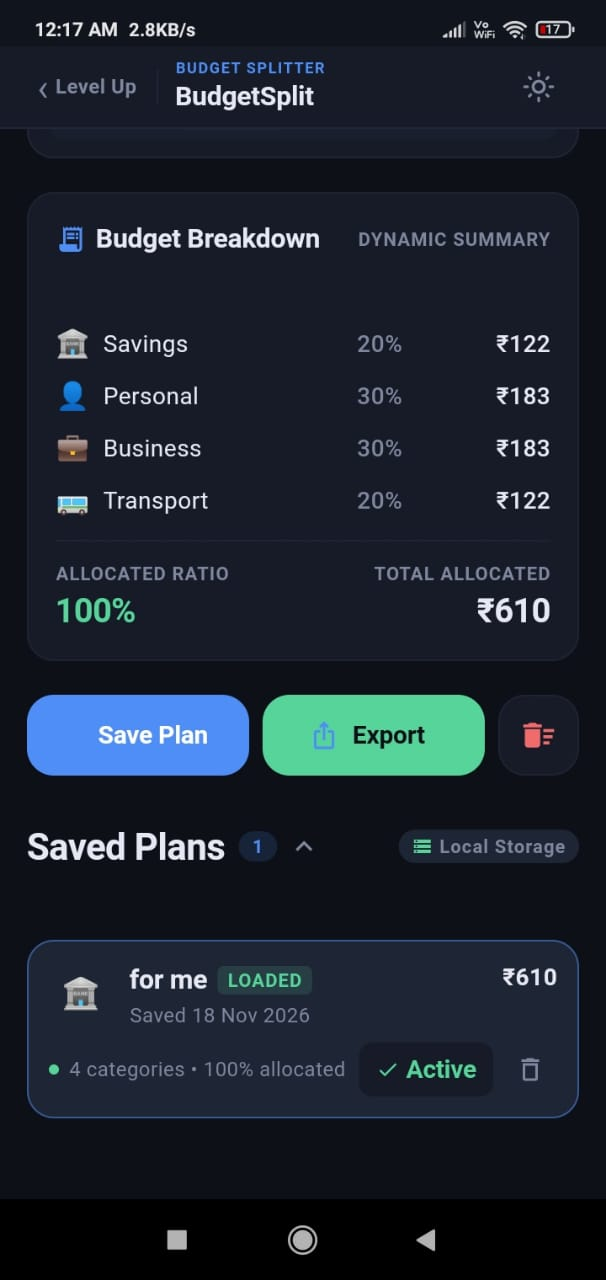
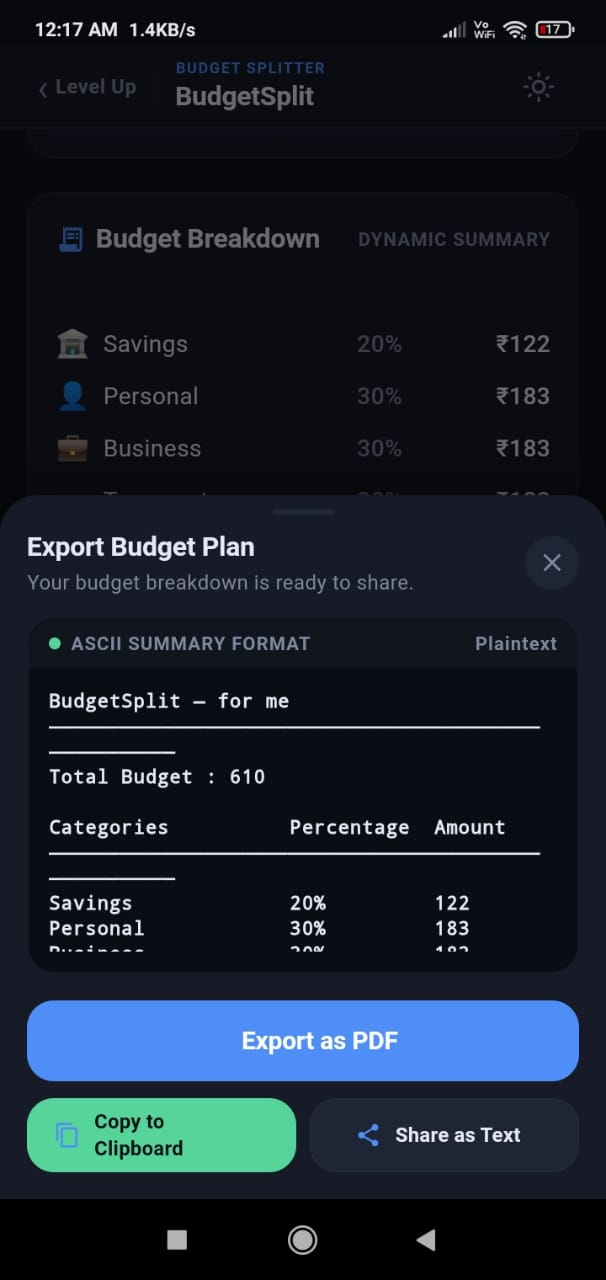
fix(docs): correctly pair budget breakdown and export sheet dark mode screenshots, format developer profile with interactive handles

diff --git a/README.md b/README.md
@@ -322,9 +322,19 @@ If you find this project interesting, have feedback, or would like to collaborat
 
 **HARIHAR R**
 
-- **Email:** [harihar.r1406@gmail.com](mailto:harihar.r1406@gmail.com)
-- **LinkedIn:** [linkedin.com/in/harihar-r](https://www.linkedin.com/in/harihar-r)
-- **GitHub:** [github.com/HARIHAR1406](https://github.com/HARIHAR1406)
+| Platform | Handle / Contact |
+|:---|:---|
+| 📧 **Email** | [harihar.r1406@gmail.com](mailto:harihar.r1406@gmail.com) |
+| 💼 **LinkedIn** | [harihar-r](https://www.linkedin.com/in/harihar-r) |
+| 🐙 **GitHub** | [HARIHAR1406](https://github.com/HARIHAR1406) |
+
+<br/>
+
+[![Email](https://img.shields.io/badge/Email-harihar.r1406%40gmail.com-EA4335?style=for-the-badge&logo=gmail&logoColor=white)](mailto:harihar.r1406@gmail.com)
+&nbsp;
+[![LinkedIn](https://img.shields.io/badge/LinkedIn-harihar--r-0A66C2?style=for-the-badge&logo=linkedin&logoColor=white)](https://www.linkedin.com/in/harihar-r)
+&nbsp;
+[![GitHub](https://img.shields.io/badge/GitHub-HARIHAR1406-181717?style=for-the-badge&logo=github&logoColor=white)](https://github.com/HARIHAR1406)
 
 ---
 
